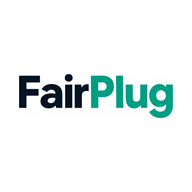
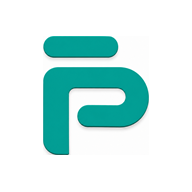
App-icoon: FP-monogram in plaats van woordmerk

Changed region(s): [[0.0938, 0.3438, 0.9062, 0.8125], [0.2188, 0.1875, 0.625, 0.3125]]

diff --git a/sw.js b/sw.js
@@ -1,5 +1,5 @@
 // FairPlug service worker: maakt de app installeerbaar en cachet de schil.
-const CACHE = 'fairplug-v4';
+const CACHE = 'fairplug-v5';
 const FILES = ['./', './index.html', './manifest.webmanifest', './icons/icon-192.png', './icons/icon-512.png'];
 self.addEventListener('install', e => { e.waitUntil(caches.open(CACHE).then(c => c.addAll(FILES))); self.skipWaiting(); });
 self.addEventListener('activate', e => { e.waitUntil(caches.keys().then(ks => Promise.all(ks.filter(k => k !== CACHE).map(k => caches.delete(k))))); self.clients.claim(); });
